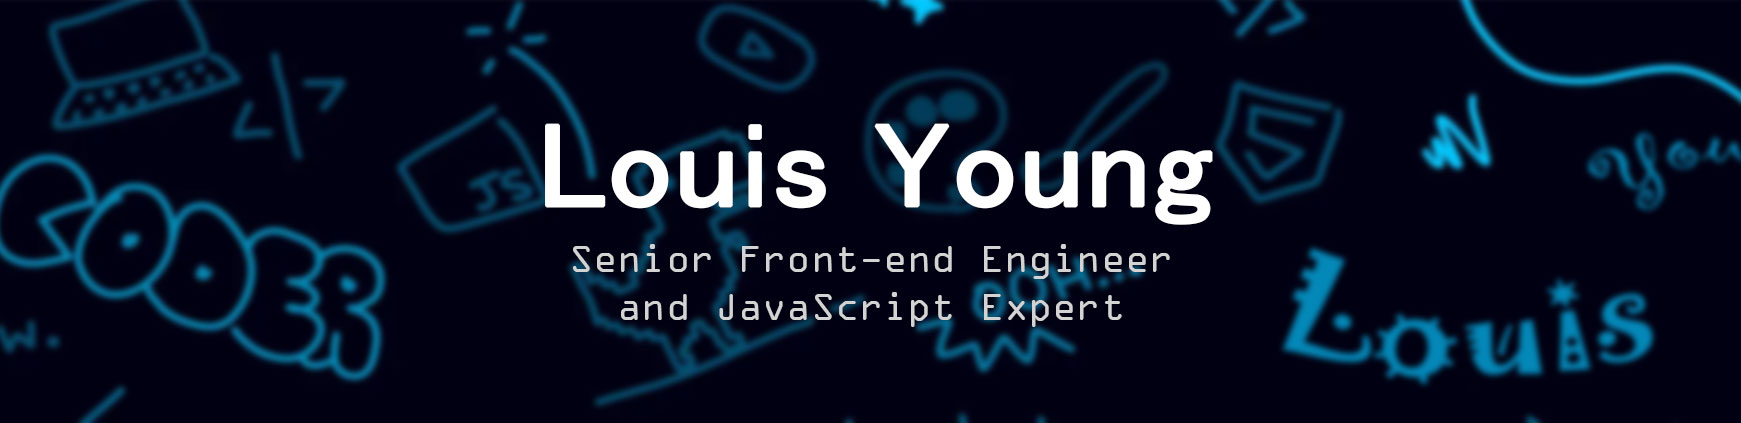
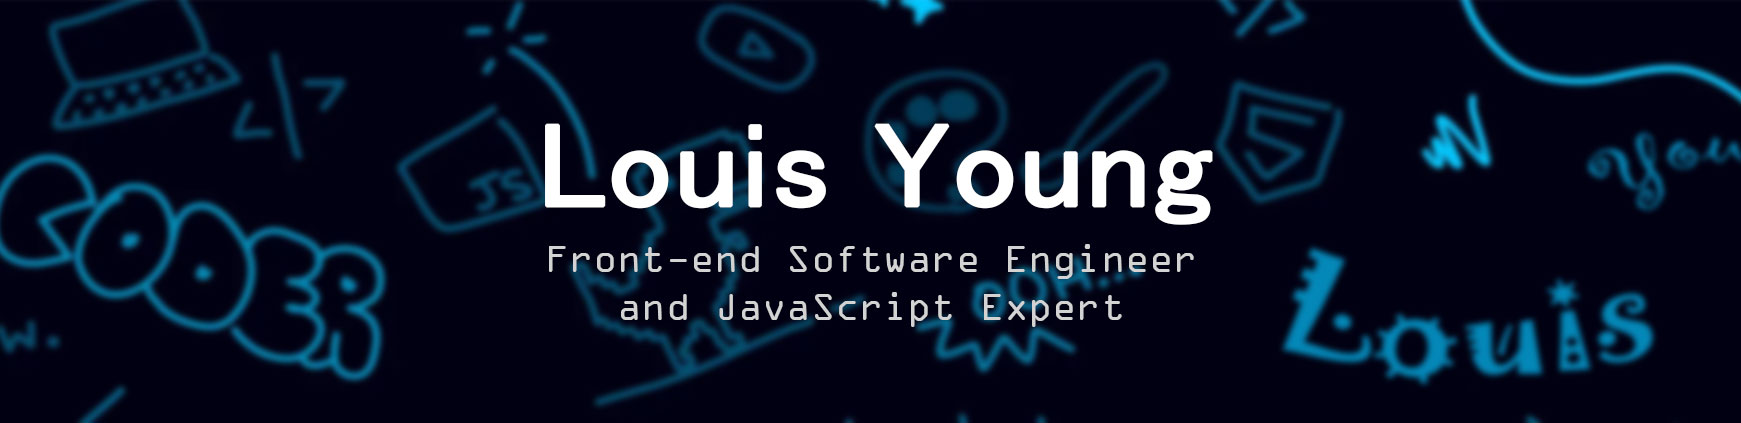
Change title

Changed region(s): [[0.3722, 0.5839, 0.6824, 0.6761], [0.3102, 0.5839, 0.3412, 0.6454]]

diff --git a/readme.md b/readme.md
@@ -1,6 +1,6 @@
 ![Louis Young - Front-end Software Engineer](./cover.jpg)
 
-![](https://visitor-badge.glitch.me/badge?page_id=louisyoung92)
+[![HitCount](https://views.whatilearened.today/views/github/louisyoung92/louisyoung92.svg)](https://github.com/louisyoung92/louisyoung92)
 
 ## Services
 
